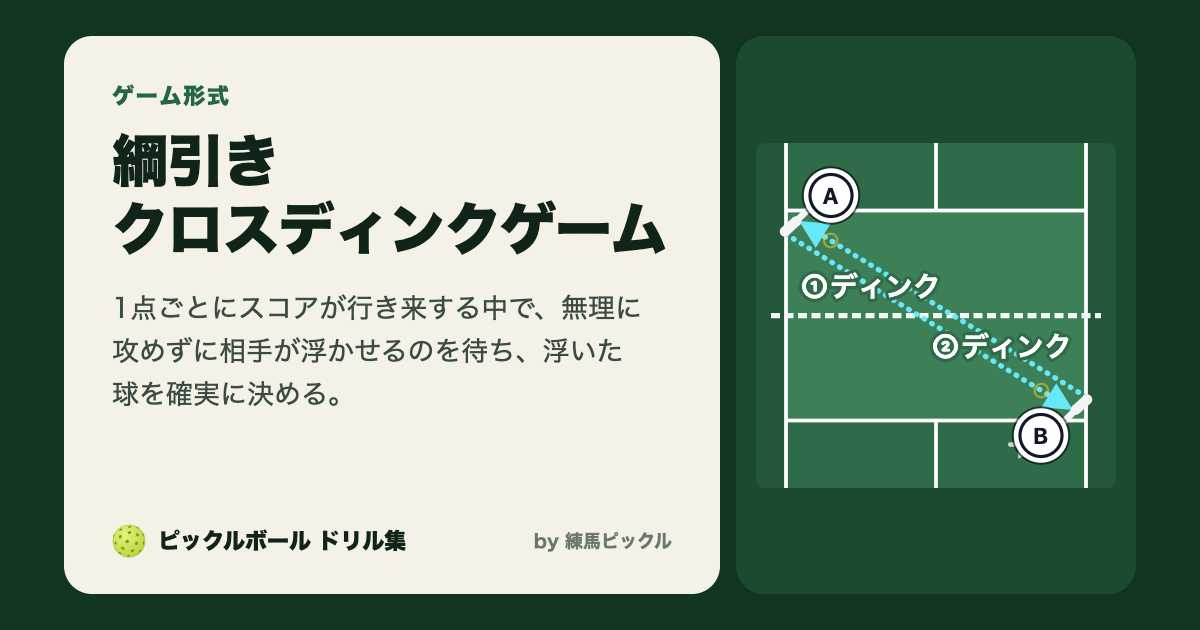
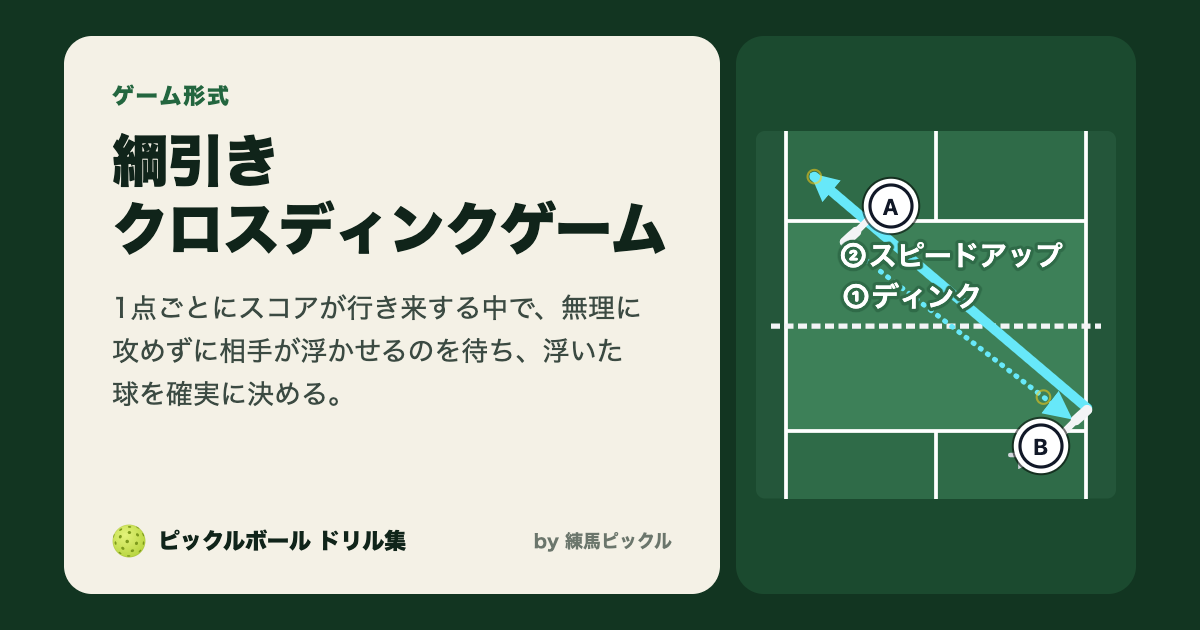
Game score track: diagram score + shot point; gam001 animates 0 → +1 → 0 → −1 → −2 with a moving marker
Claude-Session: https://claude.ai/code/session_013HpVCq95JLREtWQF64J4S6

Changed region(s): [[0.6475, 0.181, 0.925, 0.8143]]

diff --git a/src/scripts/court-anim.ts b/src/scripts/court-anim.ts
@@ -38,6 +38,16 @@ const BALL_FADE_MS = 300;
 function setup(root: HTMLElement) {
 	const frames = [...root.querySelectorAll<SVGSVGElement>('svg.frame')];
 	const dots = [...root.querySelectorAll<HTMLElement>('[data-step-dot]')];
+	// ゲーム形式の点の目盛り: 手の始まりは「前の点」、手が終わったら「後の点」へ印を動かす
+	const track = root.querySelector<HTMLElement>('[data-score-track]');
+	const marker = track?.querySelector<HTMLElement>('.score-marker');
+	const scoreTo = Number(track?.dataset.scoreTo) || 1;
+	const setScore = (v: number | undefined, instant: boolean) => {
+		if (!marker || v === undefined || Number.isNaN(v)) return;
+		marker.classList.toggle('instant', instant);
+		marker.style.setProperty('--pos', String((v + scoreTo) / (scoreTo * 2)));
+	};
+	const scoreOf = (f: SVGSVGElement, k: 'scoreBefore' | 'scoreAfter') => (f.dataset[k] !== undefined ? Number(f.dataset[k]) : undefined);
 	const toggleBtn = root.querySelector<HTMLButtonElement>('[data-act="toggle"]')!;
 	let current = 0;
 	// 「視差効果を減らす」設定のときは自動再生せず、ボタンで1手ずつ切り替えて静止した図を見せる
@@ -92,6 +102,8 @@ function setup(root: HTMLElement) {
 		frames.forEach((f, k) => (f.style.display = k === i ? '' : 'none'));
 		dots.forEach((d, k) => d.classList.toggle('active', k === i));
 		const frame = frames[i];
+		// 点の目盛り: 動かす手は前の点から、止まった図は後の点を見せる
+		setScore(scoreOf(frames[i], animate ? 'scoreBefore' : 'scoreAfter'), true);
 		// ループで消したボールを、次に見せるときは元に戻す
 		frame.querySelectorAll<SVGElement>('.ball, .side-ball').forEach((b) => (b.style.opacity = ''));
 		const ball = frame.querySelector<SVGGElement>('.ball')!;
@@ -253,6 +265,7 @@ function setup(root: HTMLElement) {
 				if (balls[0]) {
 					drawBall(ballAt(balls[0], 1));
 				}
+				setScore(scoreOf(frame, 'scoreAfter'), false);
 				done?.();
 			}
 		};
@@ -306,6 +319,8 @@ function setup(root: HTMLElement) {
 		// 位置が同じでも、高さが違えば（例: 肩の高さで受けた球を、膝の高さのディンクで打ち始める）つながらないので出し直す
 		const fade = !!start && (fresh || !end || Math.hypot(start.x - end.x, start.y - end.y) > 0.5 || Math.abs(start.h - end.h) > 0.5);
 		const balls = [...frame.querySelectorAll<SVGElement>('.ball, .side-ball')];
+		// 点の目盛りも、最初の手の始まりの点（0）へ戻す
+		setScore(scoreOf(first, 'scoreBefore'), false);
 		const t0 = performance.now();
 		const tick = (now: number) => {
 			const t = Math.min(1, (now - t0) / REWIND_MS);

diff --git a/src/content.config.ts b/src/content.config.ts
@@ -76,6 +76,8 @@ const diagram = z.object({
 				peak: z.enum(keysOf<HeightLevel>(heightLevels)).optional(),
 				/** 投げ下ろすような弧: 打った高さから上がらずに、だんだん速く下がっていく（上から投げ下ろす球出しなど）。peak は使わない */
 				fall: z.boolean().default(false),
+				/** ゲーム形式: この球で決まり、書いた人（ID）が1点取る。図に score があれば点の目盛りが動く。次の球は新しいボールになる */
+				point: z.string().optional(),
 			}),
 		)
 		.default([]),
@@ -87,6 +89,11 @@ const diagram = z.object({
 	/** auto=使っている範囲だけ縦に切り出す / full=コート全体 */
 	crop: z.enum(['auto', 'full']).default('auto'),
 	caption: z.string().optional(),
+	/**
+	 * ゲーム形式の点の目盛り（綱引きのように、2人で1つの点を動かすゲーム）。to: 勝ちの点、plus: 点が増える人、minus: 点が減る人。
+	 * 打球の point で点が動き、図の下の目盛りの印が左右に動く
+	 */
+	score: z.object({ to: z.number().int().min(1), plus: z.string(), minus: z.string() }).optional(),
 	/** 共有のプレビュー画像に描く手（番号 n）。書かなければ決まりで選ぶ（src/lib/og.ts） */
 	ogSteps: z.array(z.number().int()).optional(),
 }).refine(

diff --git a/src/styles/court.css b/src/styles/court.css
@@ -369,3 +369,49 @@
 .court.still .player .paddle {
 	stroke-width: 0.68;
 }
+
+/* ゲーム形式の点の目盛り（綱引き）: 図の下に −N … 0 … +N を並べ、点が決まるたびに印が左右に動く */
+.court .score-track {
+	display: flex;
+	align-items: center;
+	gap: 0.5rem;
+	margin: 0.4rem auto 0;
+	max-width: 22rem;
+	font-size: var(--sl-text-xs, 0.8rem);
+}
+.court .score-end {
+	white-space: nowrap;
+	color: var(--sl-color-gray-3);
+}
+.court .score-bar {
+	position: relative;
+	flex: 1;
+	height: 1.9rem;
+	border-bottom: 2px solid var(--sl-color-gray-4);
+}
+.court .score-tick {
+	position: absolute;
+	left: calc(1rem + var(--pos) * (100% - 2rem));
+	bottom: 0.35rem;
+	transform: translateX(-50%);
+	color: var(--sl-color-gray-3);
+	font-variant-numeric: tabular-nums;
+}
+.court .score-tick.zero {
+	color: var(--sl-color-white);
+	font-weight: 700;
+}
+.court .score-marker {
+	position: absolute;
+	left: calc(1rem + var(--pos) * (100% - 2rem));
+	bottom: -0.45rem;
+	width: 0.8rem;
+	height: 0.8rem;
+	border-radius: 50%;
+	background: var(--sl-color-text-accent);
+	transform: translateX(-50%);
+	transition: left 0.45s ease-in-out;
+}
+.court .score-marker.instant {
+	transition: none;
+}

diff --git a/.claude/skills/add-drill/SKILL.md b/.claude/skills/add-drill/SKILL.md
@@ -132,6 +132,7 @@ drill:
   - 受ける人の手前に落として矢印を着地点で止めたいときは `to: A.front`（A の手前のキッチン側に落ちる）。
   - 決まりに当てはまらないときだけ `bounce: [x, y]` で書く。
   - 打つ前に一度弾ませてから打つ球（ワンバウンドさせてから出す球出しなど）は、その打球に `afterBounce: true` を書く。手から落としたボール（トラップして上げたボール）がパドルの真下で弾み、打点まで上がってから打球が始まる。
+- **ゲーム形式の点**：2人で1つの点を動かすゲーム（綱引きクロスディンクゲーム gam001 など）は、図に `score: { to: 勝ちの点, plus: 点が増える人, minus: 点が減る人 }` を書き、決まる球に `point: 取った人` を書く。図の下に −N … 0 … +N の目盛りが出て、点が決まるたびに印が動く。決まる球は相手の横を抜けて落ちる所（位置の名前）へ打ち、次の球はコードが新しいボールにする。勝ち負けが分かるように、0 から勝ちの点まで動く例を描く。
 - **高さ**：打つ高さと山の高さは、打球の種類で決まる（`config/court.ts` の `heightLevels`・`shotHeights`）。受ける高さは、受けた人が次に打つ球の打点。違う高さで打つ球だけ `hit:`・`peak:` を書く（例: ロールのスピードアップは `hit: underTape`）。上から投げ下ろすように、打った高さから上がらずに弧を描いて落ちる球は `fall: true`（例: dnk009 の手投げの球出し）。
 - トランやベースラインに人がいる側は、自動でベースラインまで描かれる。
 

diff --git a/docs/decisions.md b/docs/decisions.md
@@ -114,3 +114,4 @@
   - 共有画像は、主役の手に球が2つ以上あれば、その手だけを描く（dnk002・dnk005 の `ogSteps` をやめた）。
 - 書き手の注文が今ある規則に当てはまらないときは、作業の前に「どういう規則か」を案を添えて聞き、規則にしてからコードかスキルに書く。この場だけの例外は、書き手がそう決めたときだけ（書き手の方針。AGENTS.md と add-drill スキルに書いた）。
 - 共有画像の題名の折り返しを規則にした。空白のない長い題名でも、カタカナが始まる所（綱引き｜クロスディンク）で折り返せるようにし（開きかっこの直後では切らない）、折り返せない部分が1行に収まらなければ、収まるまで文字を小さくする（44px まで）。「クロスディン｜クゲーム」のように言葉の途中で切れていたため。
+- ゲーム形式の点の目盛りを作った（図の `score` と打球の `point`）。綱引きクロスディンクゲーム（gam001）は、ルールが違うので別のドリルにし、綱引き感をアニメーションで見せるために、図の下に −2 … 0 … +2 の目盛りを置き、点が決まるたびに印が動くようにした（書き手の希望）。アニメーションは 0 → +1 → 0 → −1 → −2（B の勝ち）の例で、決まる球は相手の横を抜けて落ちる。点が決まった次の球は新しいボールとして扱う。

diff --git a/src/content/docs/drills/gam/gam001.md b/src/content/docs/drills/gam/gam001.md
@@ -28,9 +28,17 @@ drill:
     players:
       - { id: A, at: far-leftInner-kitchen, sidestep: far-leftOuter-kitchen, role: practice }
       - { id: B, at: near-rightInner-kitchen, sidestep: near-rightOuter-kitchen, role: practice }
+    # 2点で勝負する例: 0 → +1（A）→ 0 → −1 → −2（B の勝ち）。決まる球（point）は相手の横を抜けて落ちる
+    score: { to: 2, plus: A, minus: B }
     shots:
-      - { from: A, to: B, type: dink, n: 1, bounce: front }
-      - { from: B, to: A, type: dink, n: 2, bounce: front }
+      - { from: B, to: A, type: dink, n: 1, bounce: front }
+      - { from: A, to: near-rightSide-kitchenBack, type: speedup, n: 2, point: A }
+      - { from: A, to: B, type: dink, n: 3, bounce: front }
+      - { from: B, to: far-leftSide-kitchenBack, type: speedup, n: 4, point: B }
+      - { from: A, to: B, type: dink, n: 5, bounce: front }
+      - { from: B, to: far-leftSide-kitchenBack, type: speedup, n: 6, point: B }
+      - { from: A, to: B, type: dink, n: 7, bounce: front }
+      - { from: B, to: far-leftSide-kitchenBack, type: speedup, n: 8, point: B }
   builderDefault:
     min: 2
     sets: 5
